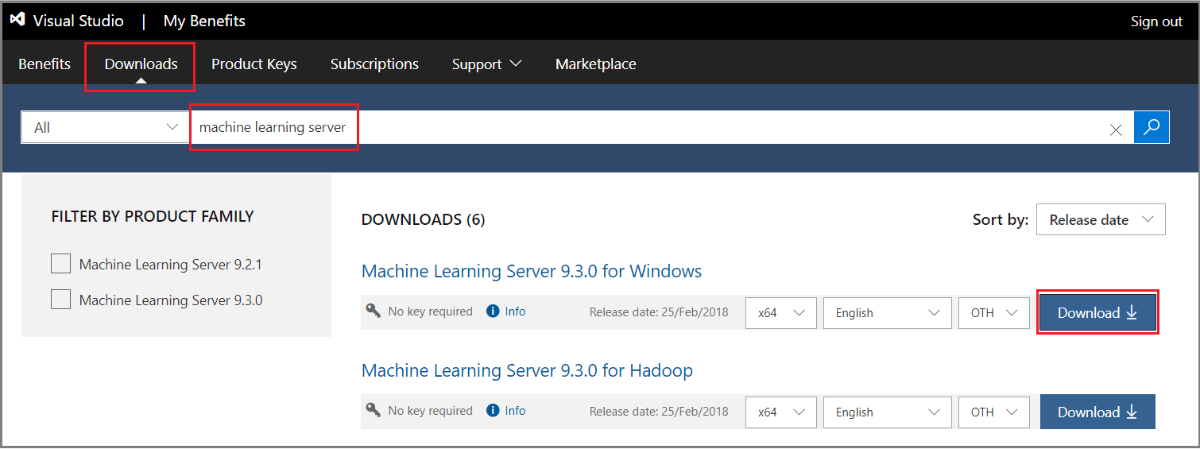
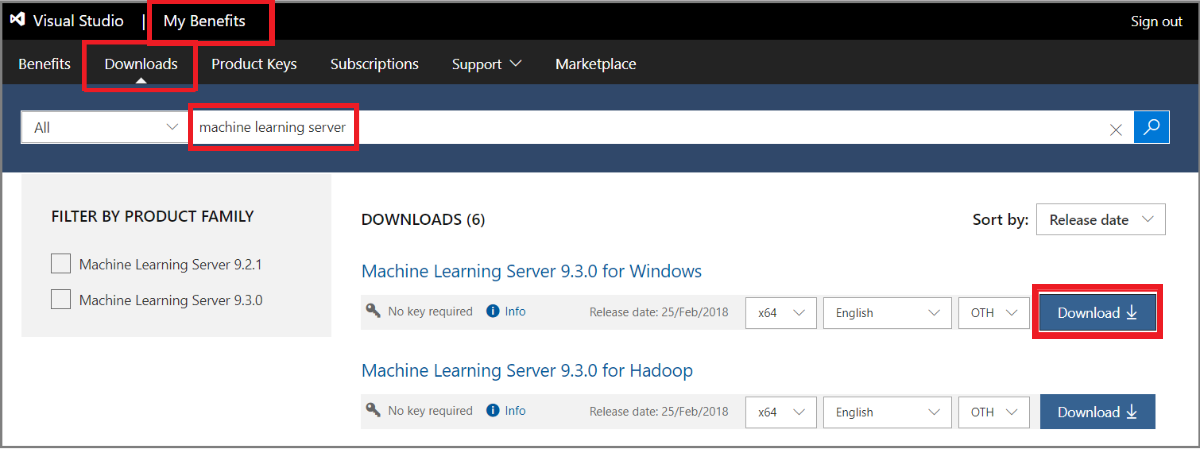
installation edits

diff --git a/microsoft-r/r-client/install-on-linux.md b/microsoft-r/r-client/install-on-linux.md
@@ -69,9 +69,9 @@ There is no support for side-by-side installations of older and newer versions.
 
 ## How to install (with internet access)
 
-This section walks you through an R Client 3.4.1 deployment. Under these instructions, your installation includes the ability to use the RevoScaleR, MicrosoftML packages, and mrsdeploy.
+This section walks you through an R Client 3.4.3 deployment. Under these instructions, your installation includes the ability to use the RevoScaleR, MicrosoftML packages, and mrsdeploy.
 
-The package manager downloads packages from the packages.microsoft.com repo, determines dependencies, retrieves additional packages, sets the installation order, and installs the software. For example syntax on setting the repo, see [Linux Software Repository for Microsoft Products](https://docs.microsoft.com/en-us/windows-server/administration/linux-package-repository-for-microsoft-software).
+The package manager downloads packages from the packages.microsoft.com repo, determines dependencies, retrieves additional packages, sets the installation order, and installs the software. For example syntax on setting the repo, see [Linux Software Repository for Microsoft Products](https://docs.microsoft.com/windows-server/administration/linux-package-repository-for-microsoft-software).
 
 > [!Note]
 > If the repository configuration file is not present in the /etc directory, try [manual configuration](https://docs.microsoft.com/windows-server/administration/linux-package-repository-for-microsoft-software#manual-configuration) for repository registration.
@@ -102,7 +102,7 @@ ls -la /etc/apt/sources.list.d/
 apt-get update
 
 # Install the packages
-apt-get install microsoft-r-client-packages-3.4.1
+apt-get install microsoft-r-client-packages-3.4.3
 
 # List the packages
 ls /opt/microsoft/rclient/
@@ -128,7 +128,7 @@ ls -la /etc/yum.repos.d/
 yum update
 
 # Install the packages
-yum install microsoft-r-client-packages-3.4.1
+yum install microsoft-r-client-packages-3.4.3
 ``` 
 
 **SUSE Linux Enterprise Server 11**
@@ -145,7 +145,7 @@ zypper ar -f http://packages.microsoft.com/sles/11/prod packages-microsoft-com
 zypper update
 
 # Install the packages
-zypper install microsoft-r-client-packages-3.4.1
+zypper install microsoft-r-client-packages-3.4.3
 ``` 
 
 
@@ -158,7 +158,7 @@ You can now [set up your IDE and try out some sample code](../r-client-get-start
 
 By default, installers connect to Microsoft download sites to get required and updated components. If firewall restrictions or limits on internet access prevent the installer from reaching these sites, you can download individual components on a computer that has internet access, copy the files to another computer behind the firewall, manually install prerequisites and packages, and then run setup.
 
-If you previously installed version 3.3.3, it will be replaced with the 3.4.1 version. 
+If you previously installed version 3.4.1, it will be replaced with the 3.4.3 version. 
 
 Packages for all supported versions of Linux can be found at [packages.microsoft.com](https://packages.microsoft.com). 
 
@@ -175,17 +175,17 @@ Packages for all supported versions of Linux can be found at [packages.microsoft
 The following packages comprise a full R Client installation:
 
 ```
- microsoft-r-client-packages-3.4.1     ** core
- microsoft-r-client-mml-3.4.1          ** microsoftml for R (optional)
- microsoft-r-client-mlm-3.4.1          ** pre-trained models (requires microsoftml)
+ microsoft-r-client-packages-3.4.3     ** core
+ microsoft-r-client-mml-3.4.3          ** microsoftml for R (optional)
+ microsoft-r-client-mlm-3.4.3          ** pre-trained models (requires microsoftml)
 ```
 
 Microsoft R Open is required for R execution:
 
 ```
- microsoft-r-open-foreachiterators-3.4.1 
- microsoft-r-open-mkl-3.4.1
- microsoft-r-open-mro-3.4.1 
+ microsoft-r-open-foreachiterators-3.4.3 
+ microsoft-r-open-mkl-3.4.3
+ microsoft-r-open-mro-3.4.3 
 ```
 
 Additional open-source packages must be installed if a package is required but not found on the system. This list varies for each installation. Here is one example of the additional packages that were added to a clean RHEL image during a connected (online) setup:
@@ -225,11 +225,11 @@ If your system provides a graphical user interface, you can click a file to down
 
 The following example is for the first package. Each command references the version number of the platform. Remember to change the number if your version is different. For more information, see [Linux Software Repository for Microsoft Products](https://docs.microsoft.com/windows-server/administration/linux-package-repository-for-microsoft-software).
 
-+ Download to CentOS or RHEL 6: `wget https://packages.microsoft.com/rhel/6/prod/microsoft-r-client-packages-3.4.1.rpm` 
-+ Download to CentOS or RHEL 7: `wget https://packages.microsoft.com/rhel/7/prod/microsoft-r-client-packages-3.4.1.rpm` 
-+ Download to SUSE: `wget https://packages.microsoft.com/sles/11/prod/microsoft-r-client-packages-3.4.1.rpm`
++ Download to CentOS or RHEL 6: `wget https://packages.microsoft.com/rhel/6/prod/microsoft-r-client-packages-3.4.3.rpm` 
++ Download to CentOS or RHEL 7: `wget https://packages.microsoft.com/rhel/7/prod/microsoft-r-client-packages-3.4.3.rpm` 
++ Download to SUSE: `wget https://packages.microsoft.com/sles/11/prod/microsoft-r-client-packages-3.4.3.rpm`
 + Download to Ubuntu 14.04: `wget https://packages.microsoft.com/prod/ubuntu/14.04/microsoft-r-client-packages-3.4.1.deb`
-+ Download to Ubuntu 16.04: `wget https://packages.microsoft.com/prod/ubuntu/16.04/microsoft-r-client-packages-3.4.1.deb`
++ Download to Ubuntu 16.04: `wget https://packages.microsoft.com/prod/ubuntu/16.04/microsoft-r-client-packages-3.4.3.deb`
 
 Repeat for each package.
 
@@ -253,23 +253,23 @@ This step completes installation.
 
 2. Once you have a package name, you can obtain verbose version information. For example:
 
-   + On CentOS and RHEL: `$ rpm -qi microsoft-r-client-packages-3.4.1`
-   + On Ubuntu: `$ dpkg --status microsoft-r-client-packages-3.4.1`  
-   + On SLES: `zypper info microsoft-r-client-packages-3.4.1`
+   + On CentOS and RHEL: `$ rpm -qi microsoft-r-client-packages-3.4.3`
+   + On Ubuntu: `$ dpkg --status microsoft-r-client-packages-3.4.3`  
+   + On SLES: `zypper info microsoft-r-client-packages-3.4.3`
 
   Output on Ubuntu is as follows:
 
    ```
-    Package: microsoft-r-client-packages-3.4.1
+    Package: microsoft-r-client-packages-3.4.3
     Status: install ok installed
     Priority: optional
     Section: devel
     Installed-Size: 195249
     Maintainer: revobuil@microsoft.com
     Architecture: amd64
-    Version: 3.4.1
-    Depends: microsoft-r-open-mro-3.4.1, microsoft-r-open-mkl-3.4.1, microsoft-r-open-foreachiterators-3.4.1
-    Description: Microsoft R Client 3.4.1
+    Version: 3.4.3
+    Depends: microsoft-r-open-mro-3.4.3, microsoft-r-open-mkl-3.4.3, microsoft-r-open-foreachiterators-3.4.3
+    Description: Microsoft R Client 3.4.3
 	  . . .
    ```
 
@@ -284,9 +284,9 @@ Review the recommendations in [Package Management](../operationalize/configure-m
 
 1. On root@, uninstall Microsoft R Open (MRO) first. This action removes any dependent packages used only by MRO, which includes packages like microsoft-mlserver-packages-r. 
 
-  + On RHEL: `yum erase microsoft-r-open-mro-3.4.1`     
-  + On Ubuntu: `apt-get purge microsoft-r-open-mro-3.4.1`  
-  + On SUSE: `zypper remove microsoft-r-open-mro-3.4.1`    
+  + On RHEL: `yum erase microsoft-r-open-mro-3.4.3`     
+  + On Ubuntu: `apt-get purge microsoft-r-open-mro-3.4.3`  
+  + On SUSE: `zypper remove microsoft-r-open-mro-3.4.3`    
 
 2. Re-list the packages from Microsoft to check for remaining files:
 
@@ -298,11 +298,11 @@ Review the recommendations in [Package Management](../operationalize/configure-m
 
 6. After packages are uninstalled, remove remaining files. On root@, determine whether additional files still exist:
 
-  + `$ ls /opt/microsoft/rclient/3.4.1/`
+  + `$ ls /opt/microsoft/rclient/3.4.3/`
 
 7. Remove the entire directory:
 
-  + `$ rm -fr ls /opt/microsoft/rclient/3.4.1/`
+  + `$ rm -fr ls /opt/microsoft/rclient/3.4.3/`
 
 RM removes the folder. Parameter "f" is for force and "r" for recursive, deleting everything under microsoft/rclient. This command is destructive and irrevocable, so be sure you have the correct directory before you press Enter.
 

diff --git a/microsoft-r/install/machine-learning-server-windows-install.md b/microsoft-r/install/machine-learning-server-windows-install.md
@@ -78,15 +78,15 @@ You can get the zipped installation file from one of the following download site
 | [Volume Licensing Service Center (VLSC)](https://go.microsoft.com/fwlink/?LinkId=717966&clcid=0x409) | Enterprise | Sign in, search for "SQL Server 2017", and then choose a per-core licensing option. A selection for **Machine Learning Server 9.3** is provided on this site. |
 | [Visual Studio Dev Essentials](https://www.visualstudio.com/dev-essentials/) | Developer (free) | This option provides a zipped file, free when you sign up for Visual Studio Dev Essentials. Developer edition has the same features as Enterprise, except it is licensed for development scenarios. |
 
-For downloads from [Visual Studio Dev Essentials](https://www.visualstudio.com/dev-essentials/):
+  For downloads from [Visual Studio Dev Essentials](https://www.visualstudio.com/dev-essentials/):
 
-1. Click **Join or access now** to sign up for download benefits.
-2. Check the URL to verify it changed to *https://my.visualstudio.com/*.
-3. Click **Downloads**.
-4. Search for *Machine Learning Server*.
-5. Click **Download** to get the Machine Learning Server installer for Windows.
+  1. Click **Join or access now** to sign up for download benefits. The Visual Studio page title should include "My Benefits". The URL should be changed to *https://my.visualstudio.com/*.
 
-![Download page on Visual Studio benefits page](./media/machine-learning-server-windows-install/search-downloads.png)
+  2. Click **Downloads** and search for *Machine Learning Server*.
+
+  3. Find the version and click **Download** to get the Machine Learning Server installer for Windows.
+
+   ![Download page on Visual Studio benefits page](./media/machine-learning-server-windows-install/search-downloads.png)
 
 <a name="howtoinstall"></a>
 
@@ -98,7 +98,7 @@ This section walks you through a Machine Learning Server deployment using the st
 
 The setup wizard installs, upgrades, and uninstalls all in one workflow.
 
-1. Extract the contents of the zipped file. On your computer, go to the Downloads folder, right-click **en_machine_learning_server_for_windows_x64_<build-number>.zip** to extract the contents.
+1. Extract the contents of the zipped file. On your computer, go to the Downloads folder, right-click **en_machine_learning_server_for_windows_x64_.zip** to extract the contents.
 
 2. Double-click **ServerSetup.exe** to start the wizard.
 
@@ -188,18 +188,21 @@ To quit the program, type `quit()` at the command line with no arguments.
 
 If you installed Machine Learning Server on Windows Server 2012 R2 or Windows Server 2016, [configure the server for operationalization](../operationalize/configure-start-for-administrators.md#configure-server-for-operationalization):
 
+You can use the `bootstrap`command for this step. This command enables operationalization features on a standalone server. It creates and starts a web node and compute node, and runs a series of diagnostic tests against the configuration to confirm the internal data storage is functionality and that web services can be successfully deployed.
+
+If you have multiple servers, you can designate each one as either a web node or compute node, and then link them up. For instructions, see [Configure Machine Learning Server (Enterprise)](../operationalize/configure-machine-learning-server-enterprise.md).
+
 1. Open an Administrator command prompt.
+
 2. Enter the following command to configure the server: `az ml admin bootstrap`
 
   ![CLI screenshot](./media/machine-learning-server-windows-install/cli-onebox.png)
 
-This command invokes the Administrator Command Line Interface (CLI), installed by Machine Learning Server and added as a system environment variable to your path so that you can run it anywhere.
+  This command invokes the Administrator Command Line Interface (CLI), installed by Machine Learning Server and added as a system environment variable to your path so that you can run it anywhere.
 
-You are prompted for a password. This password is used to protect your configuration settings. Anyone using the CLI to modify a configuration must enter the password before access is granted.
+3. Provide a password that meets these requirements: 8-16 characters long, with at least one upper-case letter, one lower-case letter, one number, and one special character. 
 
-The `bootstrap`command  enables operationalization features on a standalone server. It creates and starts a web node and compute node, and runs a series of diagnostic tests against the configuration to confirm the internal data storage is functionality and that web services can be successfully deployed.
-
-If you have multiple servers, you can designate each one as either a web node or compute node, and then link them up. For instructions, see [Configure Machine Learning Server (Enterprise)](../operationalize/configure-machine-learning-server-enterprise.md).
+  This password is used to protect your configuration settings. Anyone using the CLI to modify a configuration must provide this password to gain access to configuration settings and operations.
 
 For more information about the benefits of operationalization:
 

diff --git a/microsoft-r/install/machine-learning-server-linux-install.md b/microsoft-r/install/machine-learning-server-linux-install.md
@@ -97,45 +97,9 @@ After installation completes, software can be found at the following paths:
 
 <a name="how-to-install"></a>
 
-## <a name="redhat">Install on Red Hat or CentOS 7</a>
+## <a name="redhat">Install on Red Hat or CentOS</a>
 
-Run the following commands to install Machine Learning Server for Linux on Red Hat Enterprise (RHEL) and CentOS 7. If you run into problems, try [manual configuration](https://docs.microsoft.com/windows-server/administration/linux-package-repository-for-microsoft-software#manual-configuration) instead.
-
-  ```bash
-  # Install as root
-  sudo su
-
-  # Import the Microsoft repository key
-  sudo rpm --import https://packages.microsoft.com/keys/microsoft.asc
-  
-  # Create local `azure-cli` repository
-  sudo sh -c 'echo -e "[azure-cli]\nname=Azure CLI\nbaseurl=https://packages.microsoft.com/yumrepos/azure-cli\nenabled=1\ngpgcheck=1\ngpgkey=https://packages.microsoft.com/keys/microsoft.asc" > /etc/yum.repos.d/azure-cli.repo'
-  
-  # Set the location of the package repo at the "prod" directory
-  rpm -Uvh https://packages.microsoft.com/config/rhel/7/packages-microsoft-prod.rpm
-  
-  # Verify that the "microsoft-prod.repo" configuration file exists
-  ls -la /etc/yum.repos.d/
-  
-  # Update packages on your system:
-  yum update
-  
-  #Install the server
-  yum install microsoft-mlserver-all-9.3.0
-  
-  #Activate the server
-  /opt/microsoft/mlserver/9.3.0/bin/R/activate.sh
-  
-  # List installed packages as a verification step
-  rpm -qa | grep microsoft
-  
-  # Choose a package name and obtain verbose version information
-  rpm -qi microsoft-mlserver-packages-r-9.3.0
-  ```
-
-## <a name="redhat">Install on Red Hat or CentOS 6</a>
-
-Follow these instructions for Machine Learning Server for Linux on Red Hat Enterprise (RHEL) and CentOS 6.
+Run the following commands to install Machine Learning Server for Linux on Red Hat Enterprise (RHEL) and CentOS (6.x - 7.x). If you run into problems, try [manual configuration](https://docs.microsoft.com/windows-server/administration/linux-package-repository-for-microsoft-software#manual-configuration) instead.
 
   ```bash
   # Install as root
@@ -148,8 +112,12 @@ Follow these instructions for Machine Learning Server for Linux on Red Hat Enter
   sudo sh -c 'echo -e "[azure-cli]\nname=Azure CLI\nbaseurl=https://packages.microsoft.com/yumrepos/azure-cli\nenabled=1\ngpgcheck=1\ngpgkey=https://packages.microsoft.com/keys/microsoft.asc" > /etc/yum.repos.d/azure-cli.repo'
   
   # Set the location of the package repo at the "prod" directory
+  # FOR RHEL 6.x ONLY
   rpm -Uvh https://packages.microsoft.com/config/rhel/6/packages-microsoft-prod.rpm
-  
+
+  # FOR RHEL 7.x ONLY
+  rpm -Uvh https://packages.microsoft.com/config/rhel/7/packages-microsoft-prod.rpm
+
   # Verify that the "microsoft-prod.repo" configuration file exists
   ls -la /etc/yum.repos.d/
   
@@ -157,7 +125,11 @@ Follow these instructions for Machine Learning Server for Linux on Red Hat Enter
   yum update
   
   # Install the server
+  # FOR RHEL 6.x ONLY
   yum install microsoft-mlserver-el6-9.3.0
+
+  # FOR RHEL 7.x ONLY
+  yum install microsoft-mlserver-all-9.3.0
   
   # Activate the server
   /opt/microsoft/mlserver/9.3.0/bin/R/activate.sh

diff --git a/microsoft-r/install/machine-learning-server-azure-vm-on-linux.md b/microsoft-r/install/machine-learning-server-azure-vm-on-linux.md
@@ -66,11 +66,9 @@ If you are new to using Azure VMs, we recommend that you review [this article](h
 
 **To create the Machine Learning Server on Linux VM:**
 
-1. Go to the Azure portal: [https://portal.azure.com](https://portal.azure.com).
+1. Sign in to the [Azure portal](https://portal.azure.com).
 
-1. Click **Virtual Machines** in the left menu.
-
-1. Click **Add**.
+1. Click **Create a resource**.
 
 1. Search for *Machine Learning Server*.
 
@@ -79,8 +77,6 @@ If you are new to using Azure VMs, we recommend that you review [this article](h
 1. Accept the terms and get started by clicking **Create**. 
 
 1. Follow the onscreen prompts and fields to configure your Machine Learning Server VM. 
-   >- You need an Azure subscription to create the VM.
-   >- If you are unfamiliar with the Virtual Machines on Azure, [learn more about the process here.](https://azure.microsoft.com/documentation/services/virtual-machines/linux/)
 
 1. After the VM is deployed and running, [connect](#connect) to the VM to begin interacting with Machine Learning Server. 
 
